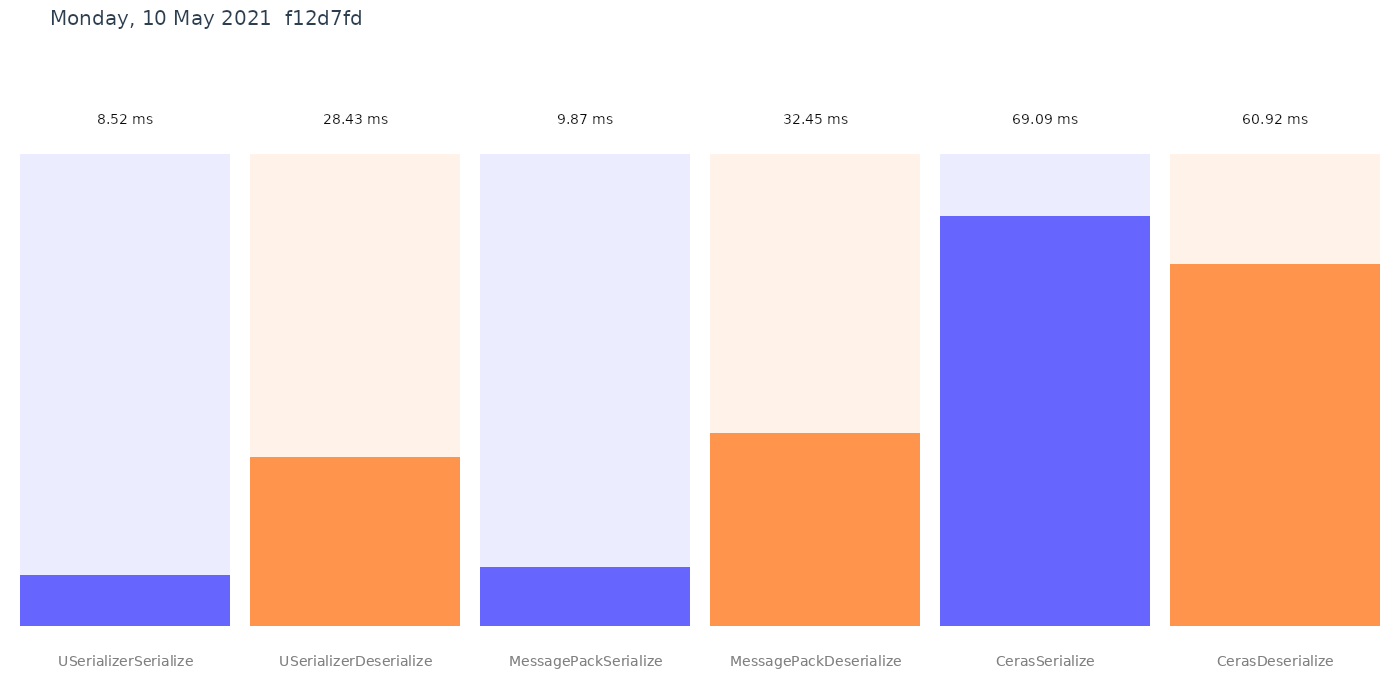
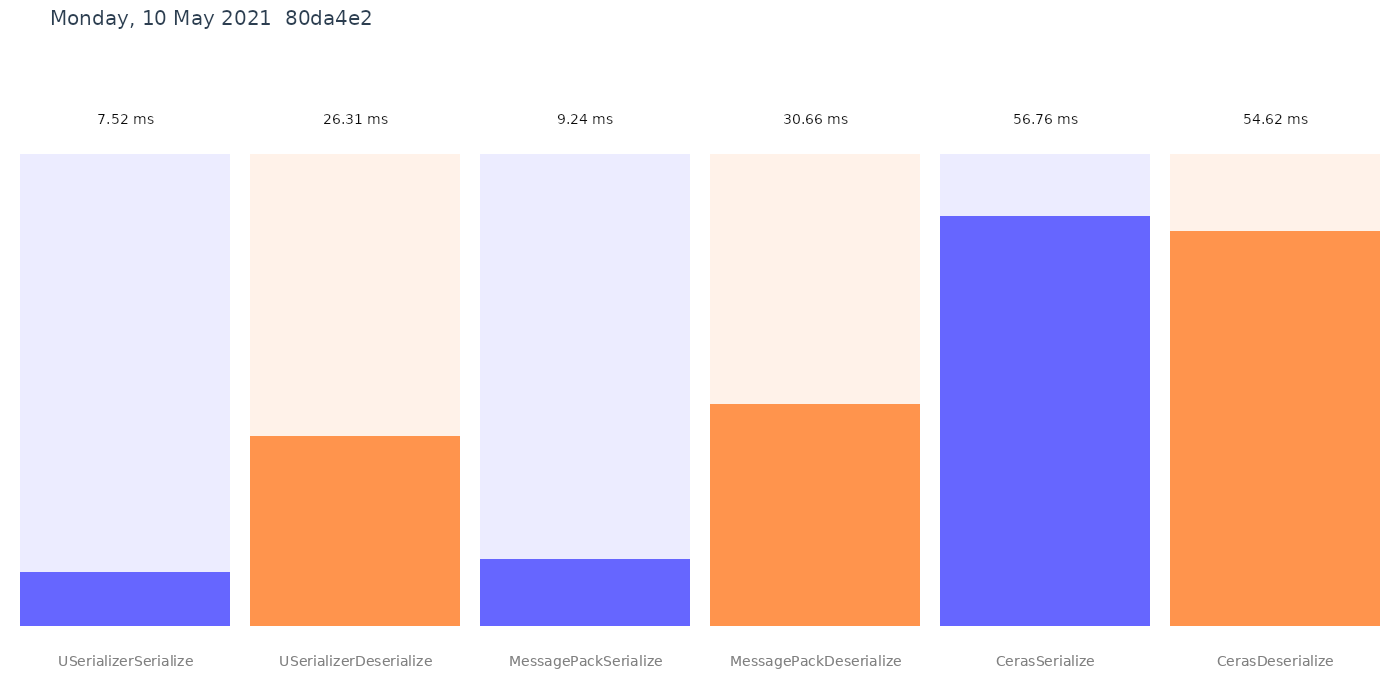
deploy: 80da4e267d4199d1ba7c6eae2d93a4022b1726e2

diff --git a/performance.md b/performance.md
@@ -1,7 +1,7 @@
 ``` ini
 
 BenchmarkDotNet=v0.12.1, OS=ubuntu 20.04
-Intel Xeon CPU E5-2673 v3 2.40GHz, 1 CPU, 2 logical and 2 physical cores
+Intel Xeon Platinum 8171M CPU 2.60GHz, 1 CPU, 2 logical and 2 physical cores
 .NET Core SDK=5.0.202
   [Host]   : .NET Core 5.0.5 (CoreCLR 5.0.521.16609, CoreFX 5.0.521.16609), X64 RyuJIT
   ShortRun : .NET Core 5.0.5 (CoreCLR 5.0.521.16609, CoreFX 5.0.521.16609), X64 RyuJIT
@@ -12,9 +12,9 @@ WarmupCount=3
 ```
 |                 Method |      Mean |     Error |    StdDev |
 |----------------------- |----------:|----------:|----------:|
-|   USerializerSerialize |  8.518 ms |  1.029 ms | 0.0564 ms |
-| USerializerDeserialize | 28.430 ms |  7.457 ms | 0.4087 ms |
-|   MessagePackSerialize |  9.866 ms |  8.523 ms | 0.4672 ms |
-| MessagePackDeserialize | 32.449 ms | 10.526 ms | 0.5770 ms |
-|         CerasSerialize | 69.088 ms |  1.584 ms | 0.0868 ms |
-|       CerasDeserialize | 60.920 ms | 13.640 ms | 0.7477 ms |
+|   USerializerSerialize |  7.522 ms | 1.7708 ms | 0.0971 ms |
+| USerializerDeserialize | 26.314 ms | 6.6300 ms | 0.3634 ms |
+|   MessagePackSerialize |  9.243 ms | 2.8760 ms | 0.1576 ms |
+| MessagePackDeserialize | 30.661 ms | 2.5634 ms | 0.1405 ms |
+|         CerasSerialize | 56.765 ms | 0.1510 ms | 0.0083 ms |
+|       CerasDeserialize | 54.623 ms | 0.8571 ms | 0.0470 ms |
